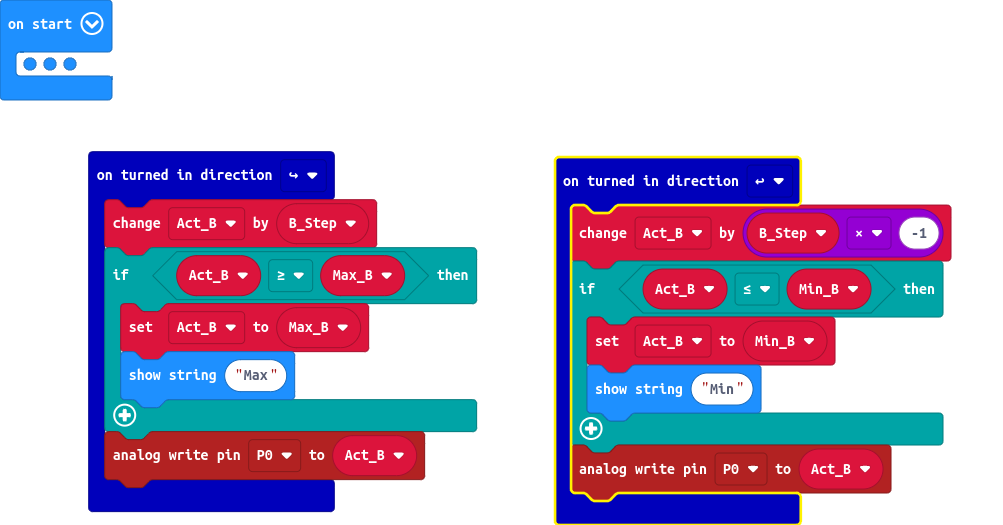
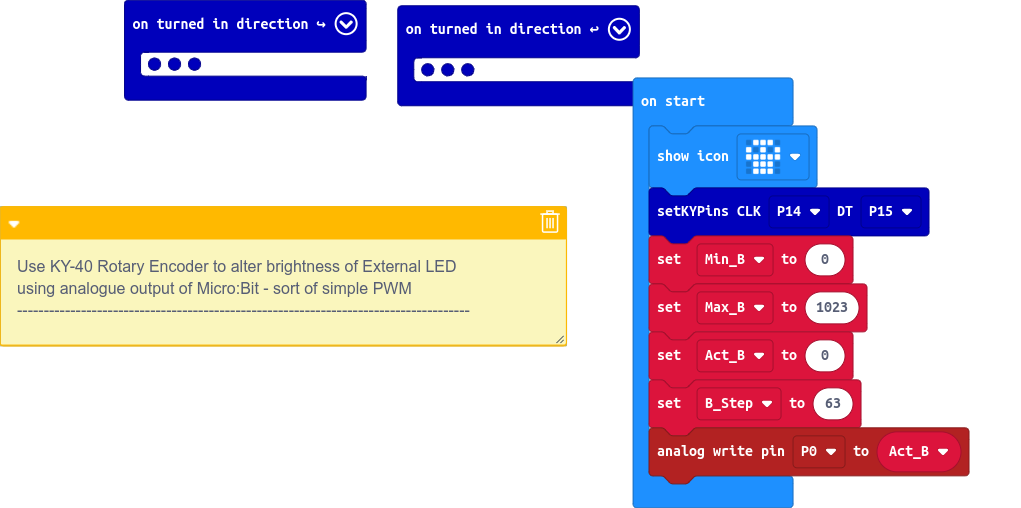
Added  Main Comment

diff --git a/main.ts b/main.ts
@@ -1,3 +1,32 @@
+/**
+ * Use KY-40 Rotary Encoder to alter brightness of External LED
+ * 
+ * using analogue output of Micro:Bit - sort of simple PWM
+ * 
+ * -------------------------------------------------------------------------------------
+ * 
+ * Uses KY-40 Extension by M Klein...
+ * 
+ * https://github.com/MKleinSB/pxt-KY-040
+ * 
+ * ------------------------------------------------------------------
+ * 
+ * Led connected to PIN0 & GND via a 470Ω resistor to limit current
+ * 
+ * -----------------------------------------------------------------------------
+ * 
+ * KY-40 Encoder connected  as follows.....
+ * 
+ * GND  ----->    GND
+ * 
+ * +        ----->    3v
+ * 
+ * CLK   ----->    PIN14
+ * 
+ * DT    ----->     PIN15
+ * 
+ * SW     *NOT USED*
+ */
 KY040.onTurned(direction.clockwise, function () {
     Act_B += B_Step * -1
     if (Act_B <= Min_B) {
